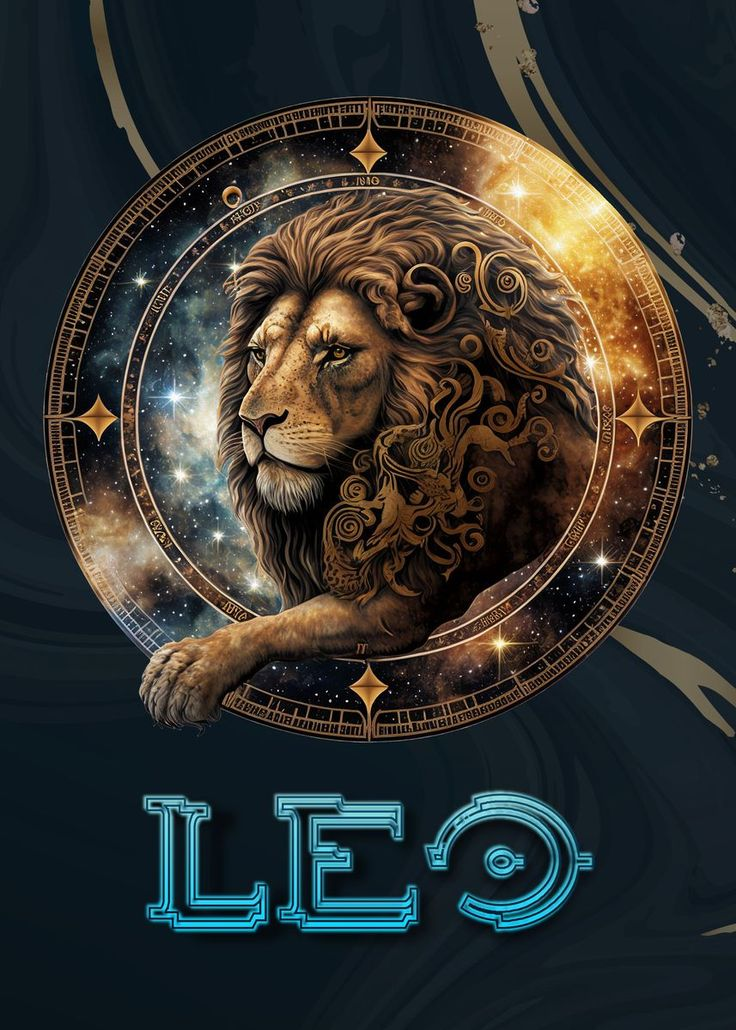
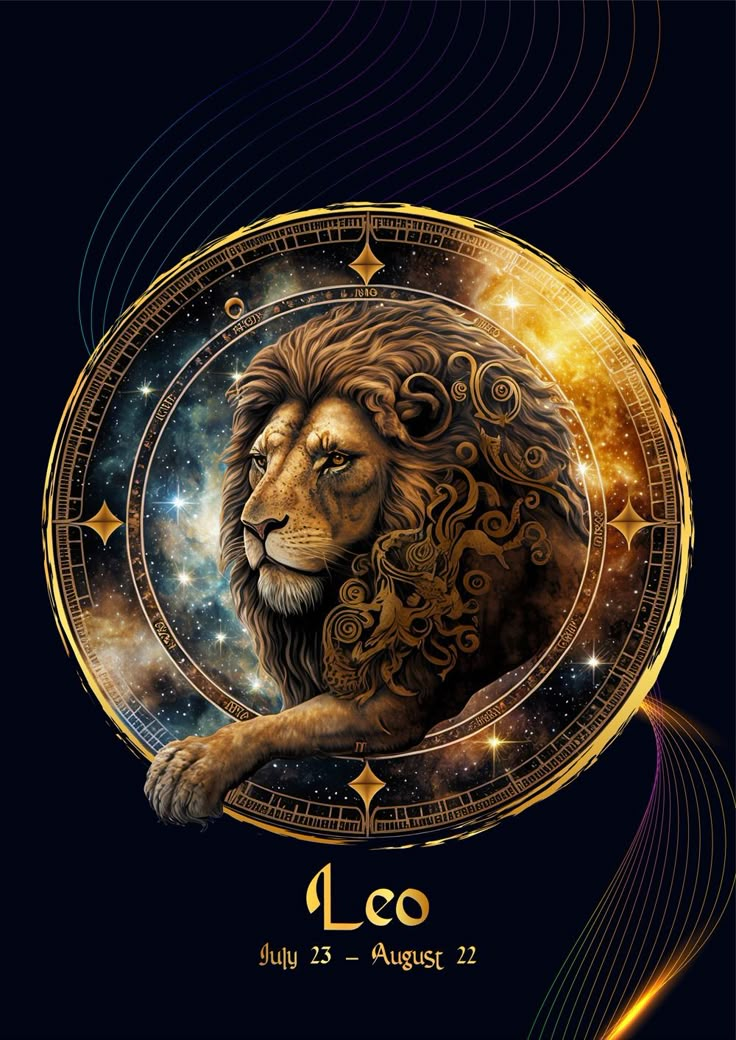
Cambiando de gifs a jpg la imagen de los signos y agregando nueva carpeta, asi como eliminar el antiguo de gifs

diff --git a/script.js b/script.js
@@ -8,7 +8,7 @@ const zodiacData = {
         planet: "Marte",
         description: "Los Aries son conocidos por su energía, valentía y determinación. Son líderes naturales que disfrutan de los desafíos y nuevas aventuras. Su espíritu competitivo y su entusiasmo los llevan a ser pioneros en muchas áreas.",
         traits: ["Enérgico", "Valiente", "Impulsivo", "Apasionado", "Honesto", "Adventurero"],
-        image: "img/gif/aries.gif"
+        image: "img/gif2/aries.jpg"
     },
     taurus: {
         title: "Tauro",
@@ -18,7 +18,7 @@ const zodiacData = {
         planet: "Venus",
         description: "Los Tauro son personas prácticas, decididas y sensibles. Valoran la seguridad y la estabilidad, y tienen un fuerte sentido de la lealtad. Son conocidos por su paciencia y su amor por los placeres sensuales de la vida.",
         traits: ["Práctico", "Leal", "Sensible", "Persistente", "Amante del confort", "Determinado"],
-        image: "img/gif/tauro.gif"
+        image: "img/gif2/tauro.jpg"
     },
     gemini: {
         title: "Géminis",
@@ -28,7 +28,7 @@ const zodiacData = {
         planet: "Mercurio",
         description: "Los Géminis son adaptables, curiosos y comunicativos. Tienen mentes ágiles y disfrutan del intercambio de ideas. Su naturaleza dual a veces puede hacer que parezcan inconsistentes, pero también les da una gran capacidad para ver múltiples perspectivas.",
         traits: ["Comunicativo", "Curioso", "Adaptable", "Versátil", "Intelectual", "Expresivo"],
-        image: "https://cdn.pixabay.com/photo/2017/09/01/20/23/balloon-2704947_1280.jpg"
+        image: "img/gif2/geminis.jpg"
     },
     cancer: {
         title: "Cáncer",
@@ -38,7 +38,7 @@ const zodiacData = {
         planet: "Luna",
         description: "Los Cáncer son emocionales, intuitivos y protectores. Valoran profundamente su hogar y familia, y tienen una gran capacidad para cuidar de los demás. Su naturaleza sensible los hace empáticos, pero también vulnerables.",
         traits: ["Emocional", "Intuitivo", "Protector", "Empático", "Nostálgico", "Cariñoso"],
-        image: "img/gif/cancer.gif"
+        image: "img/gif2/cancer.jpg"
     },
     leo: {
         title: "Leo",
@@ -48,7 +48,7 @@ const zodiacData = {
         planet: "Sol",
         description: "Los Leo son carismáticos, creativos y seguros de sí mismos. Aman ser el centro de atención y tienen un gran corazón. Su generosidad y entusiasmo por la vida inspiran a quienes los rodean.",
         traits: ["Carismático", "Creativo", "Seguro", "Generoso", "Apasionado", "Leal"],
-        image: "https://cdn.pixabay.com/photo/2017/01/31/23/42/decorative-2028036_1280.png"
+        image: "img/gif2/leo.jpg"
     },
     virgo: {
         title: "Virgo",
@@ -58,7 +58,7 @@ const zodiacData = {
         planet: "Mercurio",
         description: "Los Virgo son analíticos, prácticos y perfeccionistas. Tienen una mente aguda para los detalles y un fuerte sentido del servicio. Su modestia a veces oculta su gran sabiduría y capacidad para resolver problemas.",
         traits: ["Analítico", "Práctico", "Perfeccionista", "Modesto", "Organizado", "Servicial"],
-        image: "https://cdn.pixabay.com/photo/2017/01/31/23/42/decorative-2028036_1280.png"
+        image: "img/gif2/virgo.jpg"
     },
     libra: {
         title: "Libra",
@@ -68,7 +68,7 @@ const zodiacData = {
         planet: "Venus",
         description: "Los Libra son diplomáticos, sociales y amantes de la armonía. Buscan el equilibrio en todas las áreas de su vida y tienen un fuerte sentido de justicia. Su encanto natural los hace excelentes mediadores.",
         traits: ["Diplomático", "Social", "Armonioso", "Justo", "Encantador", "Romántico"],
-        image: "https://cdn.pixabay.com/photo/2017/01/31/23/42/decorative-2028036_1280.png"
+        image: "img/gif2/libra.jpg"
     },
     scorpio: {
         title: "Escorpio",
@@ -78,7 +78,7 @@ const zodiacData = {
         planet: "Plutón",
         description: "Los Escorpio son intensos, apasionados y perceptivos. Tienen una gran fuerza de voluntad y capacidad para transformarse. Su naturaleza misteriosa y su profundidad emocional los hacen fascinantes.",
         traits: ["Intenso", "Apasionado", "Perceptivo", "Valiente", "Misterioso", "Determinado"],
-        image: "https://cdn.pixabay.com/photo/2017/01/31/23/42/decorative-2028036_1280.png"
+        image: "img/gif2/escorpio.jpg"
     },
     sagittarius: {
         title: "Sagitario",
@@ -88,7 +88,7 @@ const zodiacData = {
         planet: "Júpiter",
         description: "Los Sagitario son aventureros, optimistas y amantes de la libertad. Buscan constantemente expandir sus horizontes a través del conocimiento y la experiencia. Su honestidad y sentido del humor los hacen compañeros encantadores.",
         traits: ["Aventurero", "Optimista", "Honesto", "Filósofo", "Extrovertido", "Entusiasta"],
-        image: "https://cdn.pixabay.com/photo/2017/01/31/23/42/decorative-2028036_1280.png"
+        image: "img/gif2/sagitario.jpg"
     },
     capricorn: {
         title: "Capricornio",
@@ -98,7 +98,7 @@ const zodiacData = {
         planet: "Saturno",
         description: "Los Capricornio son disciplinados, responsables y ambiciosos. Tienen una gran capacidad para el trabajo duro y el logro de metas a largo plazo. Su sabiduría práctica y paciencia los llevan al éxito.",
         traits: ["Disciplinado", "Responsable", "Ambicioso", "Paciente", "Práctico", "Sabio"],
-        image: "https://cdn.pixabay.com/photo/2017/01/31/23/42/decorative-2028036_1280.png"
+        image: "img/gif2/capricornio.jpg"
     },
     aquarius: {
         title: "Acuario",
@@ -108,7 +108,7 @@ const zodiacData = {
         planet: "Urano",
         description: "Los Acuario son innovadores, humanitarios e independientes. Tienen una mente original y un fuerte deseo de contribuir al bienestar colectivo. Su naturaleza progresista a veces los hace parecer excéntricos.",
         traits: ["Innovador", "Humanitario", "Independiente", "Intelectual", "Amistoso", "Excéntrico"],
-        image: "https://cdn.pixabay.com/photo/2017/01/31/23/42/decorative-2028036_1280.png"
+        image: "img/gif2/acuario.jpg"
     },
     pisces: {
         title: "Piscis",
@@ -118,7 +118,7 @@ const zodiacData = {
         planet: "Neptuno",
         description: "Los Piscis son compasivos, artísticos e intuitivos. Tienen una profunda conexión con el mundo emocional y espiritual. Su sensibilidad y creatividad los hacen excelentes artistas y sanadores.",
         traits: ["Compasivo", "Artístico", "Intuitivo", "Sensible", "Soñador", "Empático"],
-        image: "https://cdn.pixabay.com/photo/2017/01/31/23/42/decorative-2028036_1280.png"
+        image: "img/gif2/piscis.jpg"
     }
 };
 

diff --git a/index.html b/index.html
@@ -16,7 +16,7 @@
         
         <div class="zodiac-wheel">
             <div class="sign-container">
-                <div class="sign" data-sign="aries"><img src="img/signos/aries-pl.jpg" alt="Aries"></div>
+                <div class="sign" data-sign="aries"><img src="img/signos/aries.jpg" alt="Aries"></div>
                 <div class="sign-name">Aries</div>
             </div>
             <div class="sign-container">
@@ -32,7 +32,7 @@
                 <div class="sign-name">Cáncer</div>
             </div>
             <div class="sign-container">
-                <div class="sign" data-sign="leo"><img src="img/signos/leo2.jpg" alt="Leo"></div>
+                <div class="sign" data-sign="leo"><img src="img/signos/leo.jpg" alt="Leo"></div>
                 <div class="sign-name">Leo</div>
             </div>
             <div class="sign-container">
@@ -44,7 +44,7 @@
                 <div class="sign-name">Libra</div>
             </div>
             <div class="sign-container">
-                <div class="sign" data-sign="scorpio"><img src="img/signos/escorpio-pl.jpg" alt="Escorpio"></div>
+                <div class="sign" data-sign="scorpio"><img src="img/signos/escorpio.jpg" alt="Escorpio"></div>
                 <div class="sign-name">Escorpio</div>
             </div>
             <div class="sign-container">
